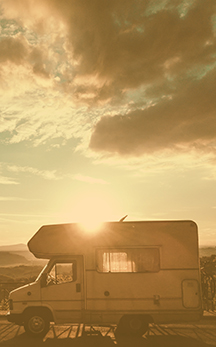
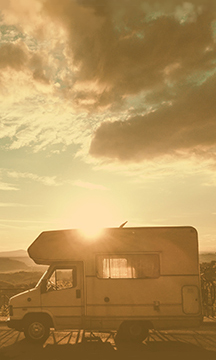
Add files via upload

diff --git a/styles.css b/styles.css
@@ -318,7 +318,7 @@ About
 }
 .about-picture-container {
   margin: 0 auto 0 auto;
-  height: 19.8rem;
+  height: 21.3rem;
   background: -o-linear-gradient(rgba(0, 0, 0, 0.2), rgba(0, 0, 0, 0.2));
 
   background: -webkit-gradient(
